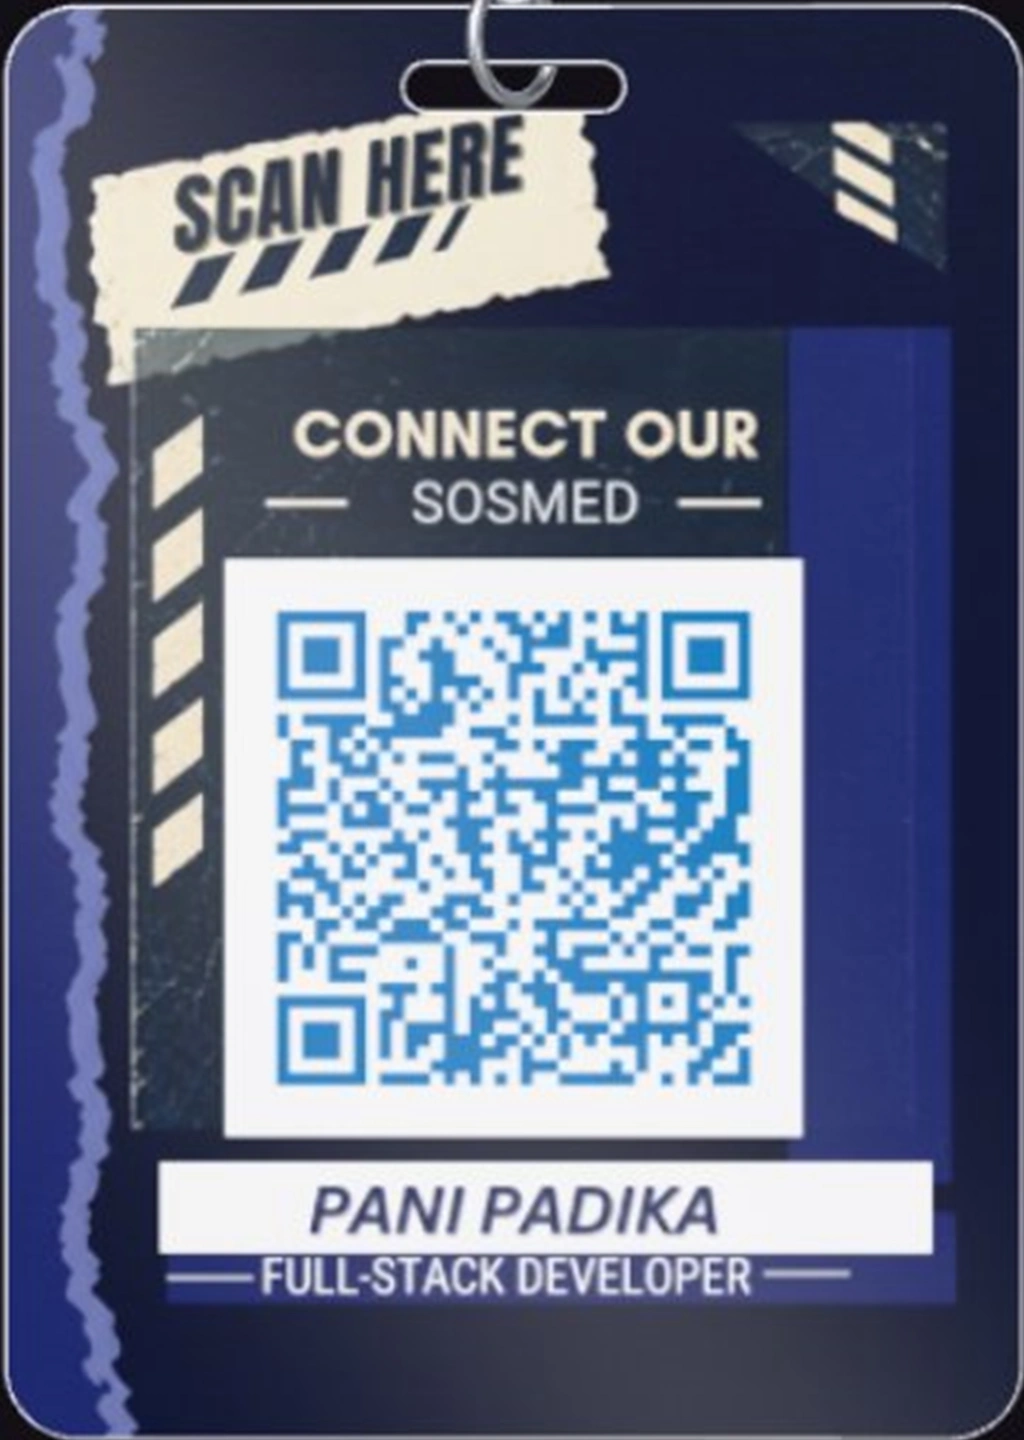
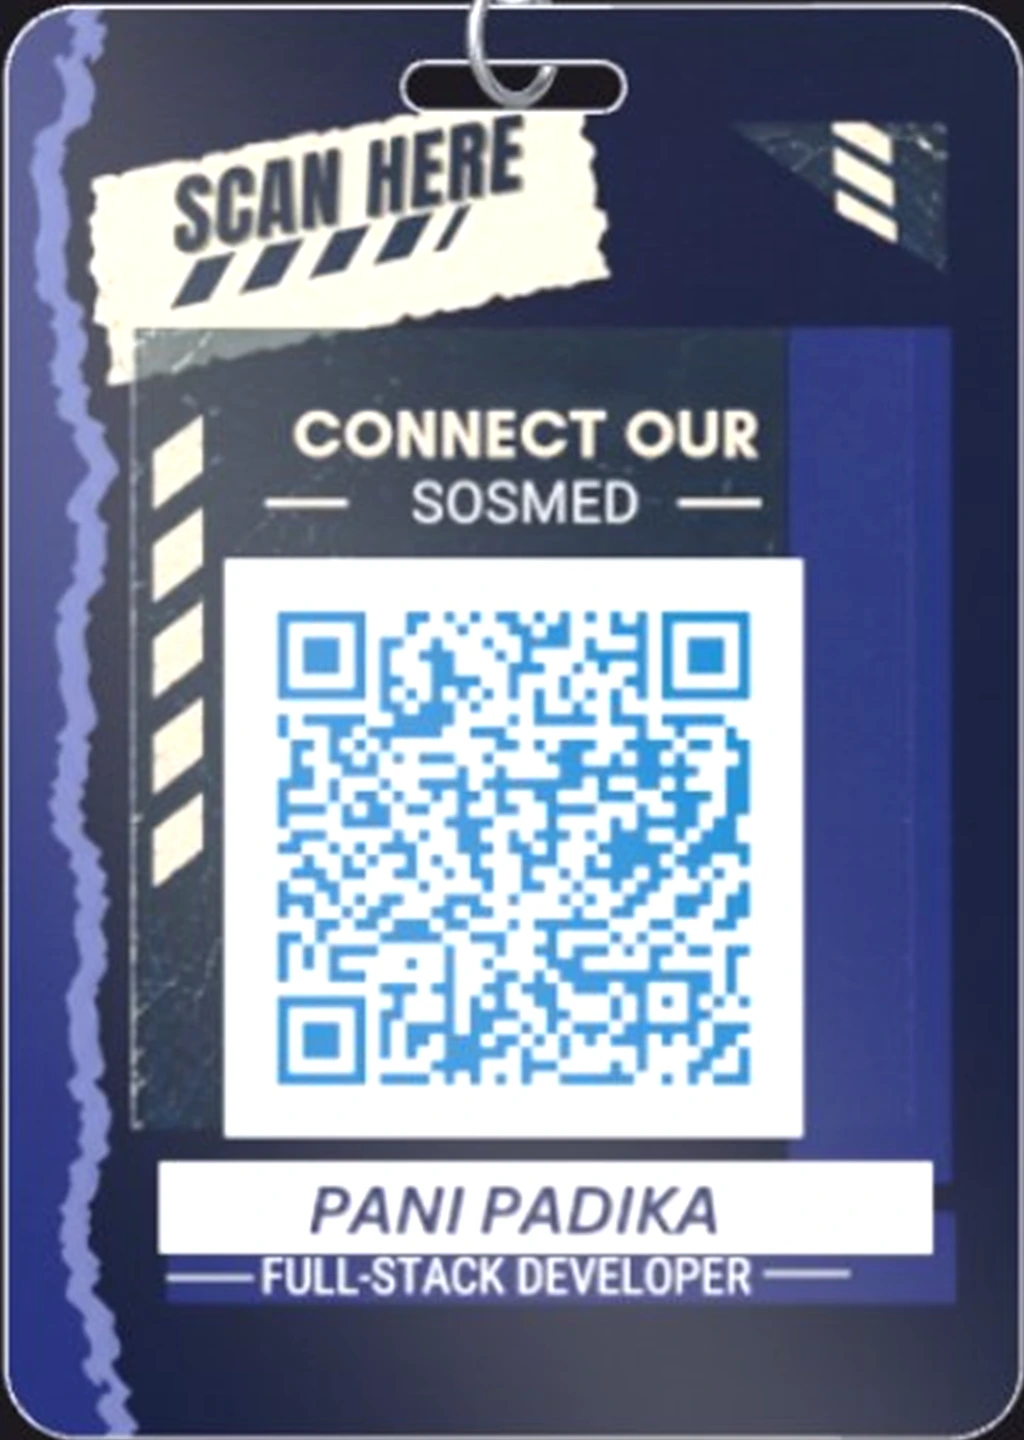
fix(lanyard): enhance 3d lanyard card photo brightness, ambient lighting, and exposure

diff --git a/resources/js/three/Lanyard.tsx b/resources/js/three/Lanyard.tsx
@@ -196,10 +196,10 @@ const FACE_WIDTH = 1024;
 
 const FINISHES: Record<string, FinishLook> = {
     glossy: {
-        roughness: 0.12,
+        roughness: 0.15,
         metalness: 0,
-        clearcoat: 1,
-        clearcoatRoughness: 0.04,
+        clearcoat: 0.8,
+        clearcoatRoughness: 0.05,
         foil: 0,
         anisotropy: 0,
     },
@@ -576,14 +576,14 @@ const buildEnvironment = (renderer: THREE.WebGLRenderer) => {
         mesh.rotateZ(rotation);
         scene.add(mesh);
     };
-    panel(1.4, [0, 4.5, 8], [9, 4]);
-    panel(3.0, [-5.5, 0.5, 7], [0.9, 14]);
-    panel(2.0, [5, -0.5, 8], [0.6, 14]);
-    panel(1.8, [0, -1, 9], [24, 0.35], Math.PI / 3);
-    panel(1.2, [1, 2.5, 9], [24, 0.2], Math.PI / 3);
-    panel(0.8, [0, 6, -6], [12, 4]);
-    panel(0.3, [0, -7, 1], [16, 6]);
-    panel(0.5, [8, 0, -2], [4, 10]);
+    panel(2.0, [0, 4.5, 8], [9, 4]);
+    panel(4.5, [-5.5, 0.5, 7], [0.9, 14]);
+    panel(3.0, [5, -0.5, 8], [0.6, 14]);
+    panel(2.4, [0, -1, 9], [24, 0.35], Math.PI / 3);
+    panel(1.6, [1, 2.5, 9], [24, 0.2], Math.PI / 3);
+    panel(1.0, [0, 6, -6], [12, 4]);
+    panel(0.4, [0, -7, 1], [16, 6]);
+    panel(0.7, [8, 0, -2], [4, 10]);
     const pmrem = new THREE.PMREMGenerator(renderer);
     const target = pmrem.fromScene(scene, 0.035);
     pmrem.dispose();
@@ -1172,7 +1172,7 @@ const Lanyard = ({
         renderer.setClearColor(0x000000, 0);
         renderer.outputColorSpace = THREE.SRGBColorSpace;
         renderer.toneMapping = THREE.NeutralToneMapping;
-        renderer.toneMappingExposure = 1;
+        renderer.toneMappingExposure = 1.15;
         const canvas = renderer.domElement;
         canvas.className = 'block w-full h-full';
         canvas.setAttribute('aria-hidden', 'true');
@@ -1186,11 +1186,12 @@ const Lanyard = ({
         const environment = buildEnvironment(renderer);
         scene.environment = environment.texture;
         const camera = new THREE.PerspectiveCamera(FOV, 1, 0.1, 200);
-        const keyLight = new THREE.DirectionalLight(0xffffff, 1.1);
-        keyLight.position.set(-2.5, 4, 6);
-        const fillLight = new THREE.DirectionalLight(0xffffff, 0.25);
-        fillLight.position.set(3, -1, 4);
-        scene.add(keyLight, fillLight);
+        const ambientLight = new THREE.AmbientLight(0xffffff, 0.75);
+        const keyLight = new THREE.DirectionalLight(0xffffff, 1.35);
+        keyLight.position.set(-2, 3.5, 6);
+        const fillLight = new THREE.DirectionalLight(0xffffff, 0.55);
+        fillLight.position.set(2.5, -0.5, 5);
+        scene.add(ambientLight, keyLight, fillLight);
 
         const imageCache = new Map<string, Promise<HTMLImageElement | null>>();
         const images: Images = { front: null, back: null, strap: null };
